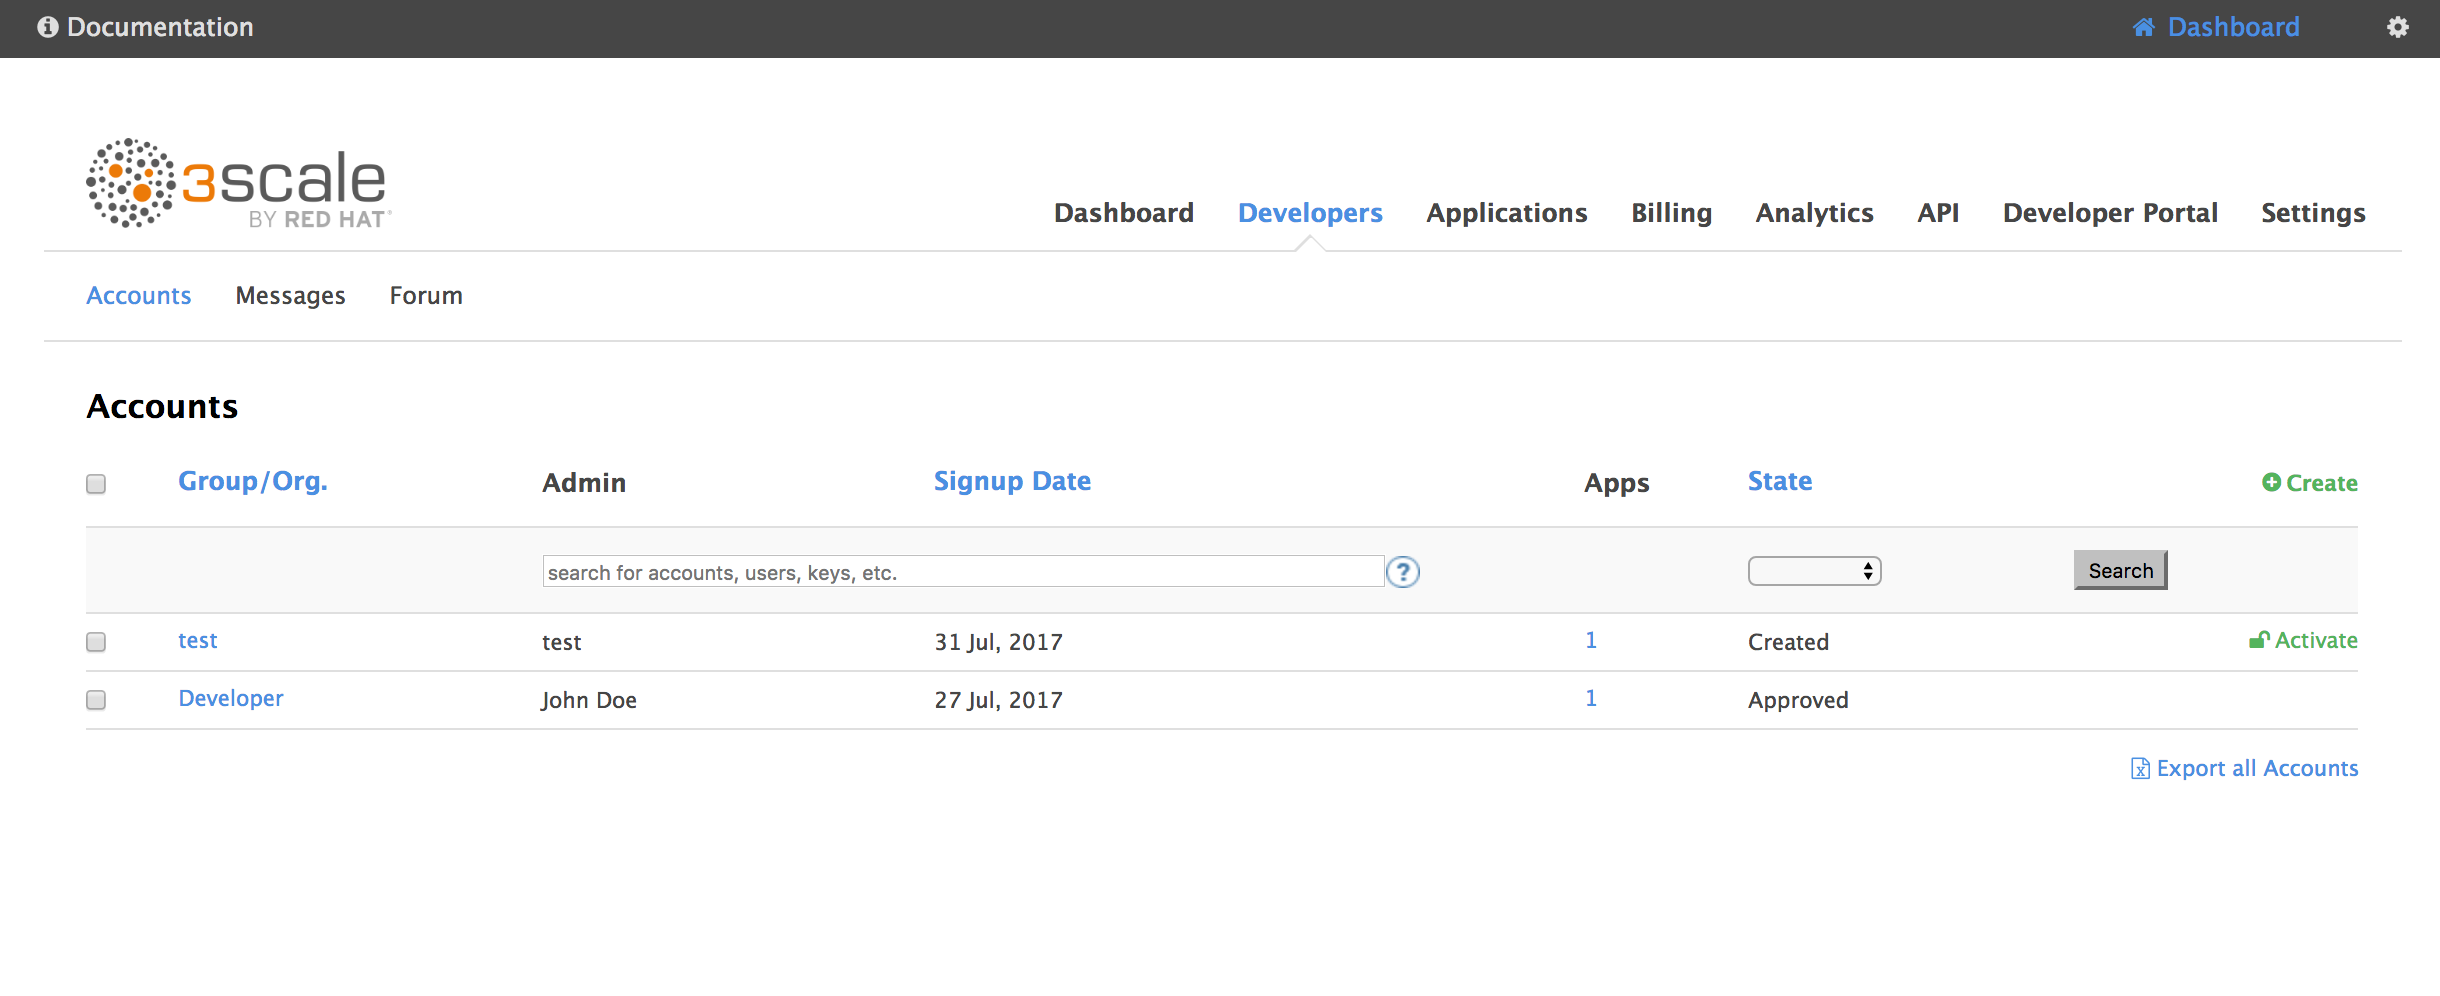
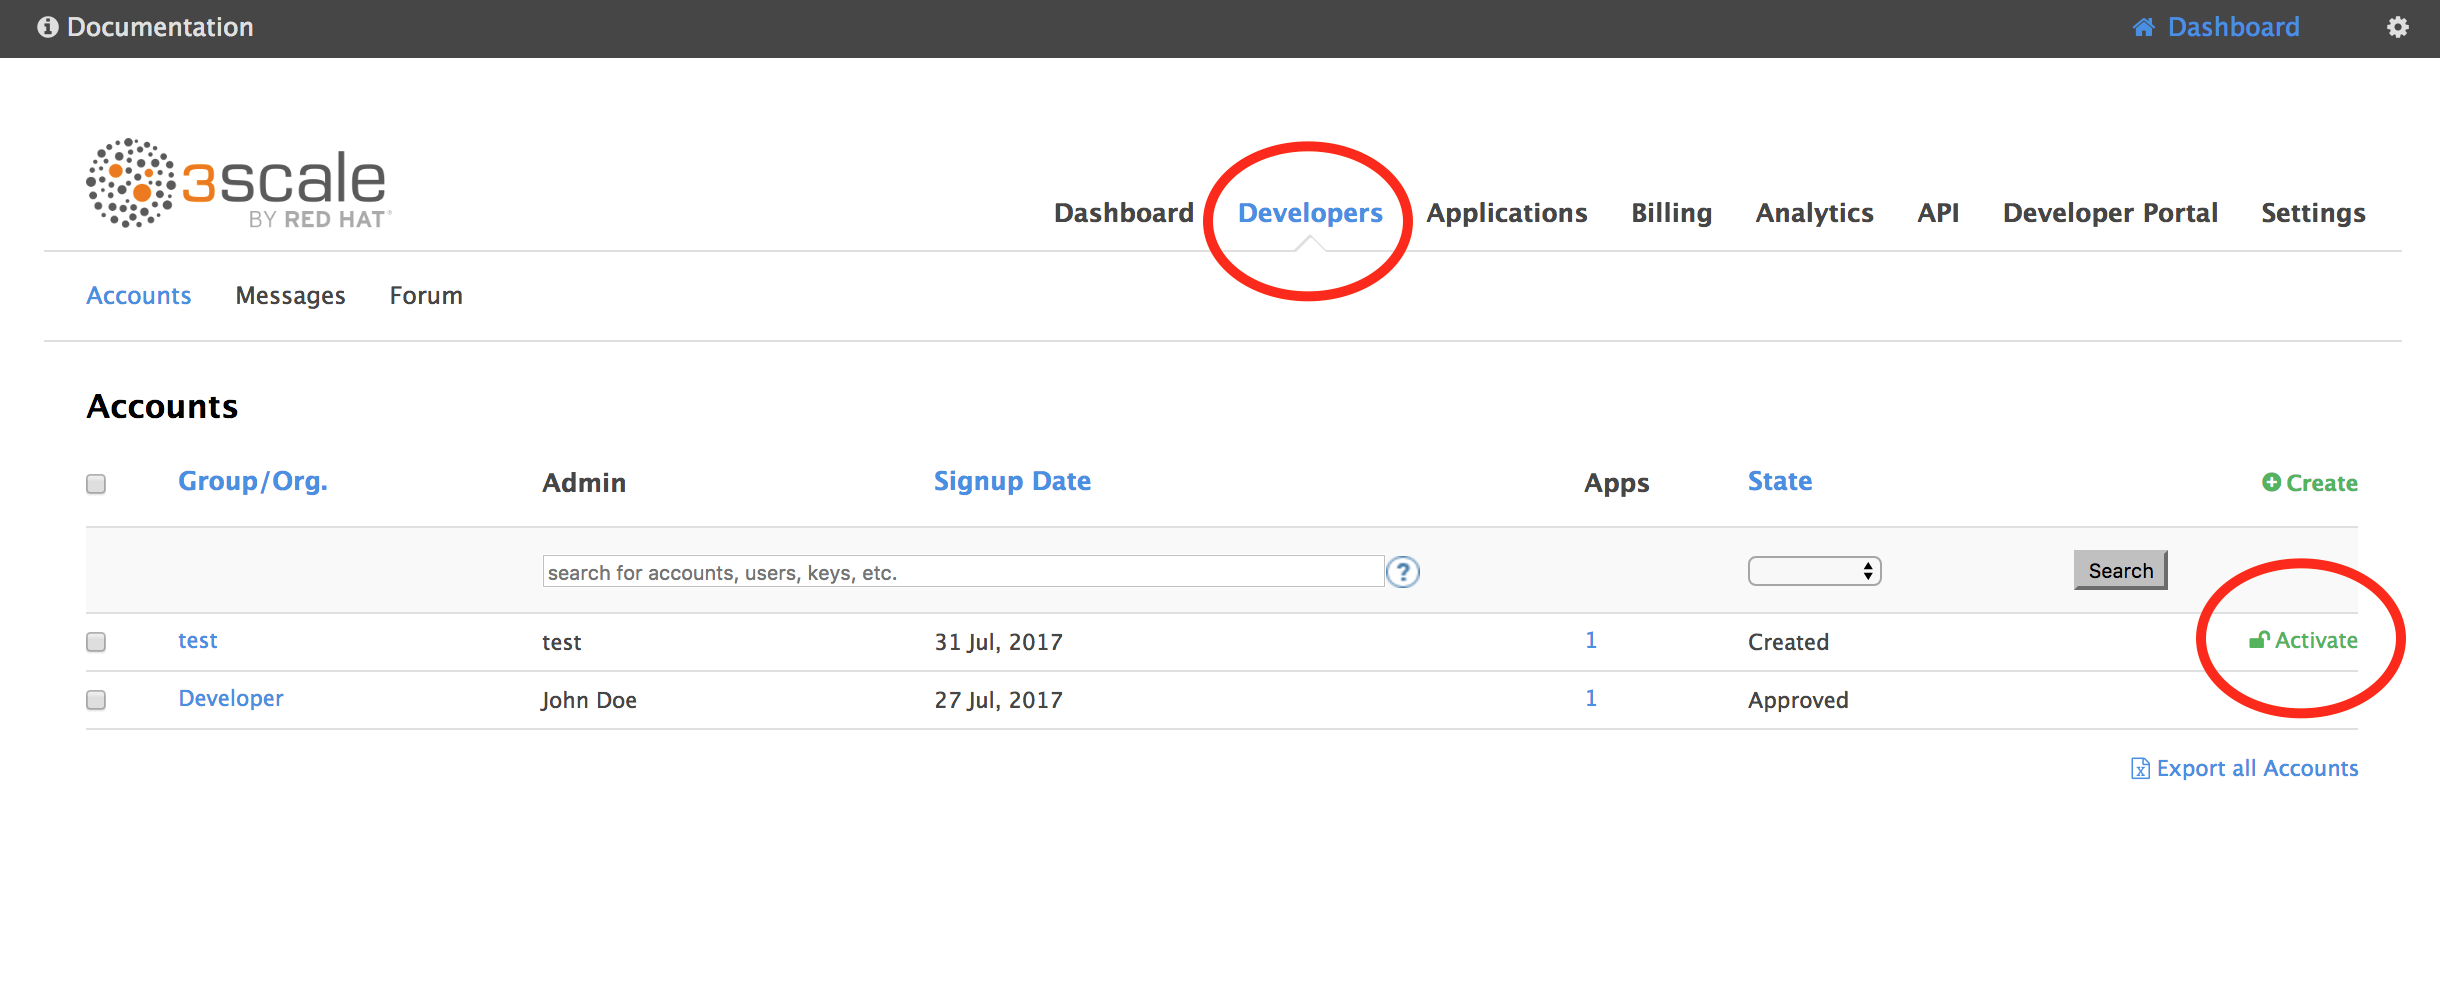
Updating documentation

diff --git a/README.md b/README.md
@@ -252,9 +252,9 @@ Authenticate with Red Hat SSO. Use either *rh-sso-ldap-user-id* or *rh-sso-user-
 After logging in you'll be prompted to add Custom signup fields. Do this and follow the sequence to completion.
 Close window  
 
-Now as your 3scale Admin user, activate this Signup Request:  
+Now as your 3scale Admin user, activate this Signup Request. Go to your Developers view and click Activate:  
   
-![28-auth-dev-portal-with-rhsso.png](https://raw.githubusercontent.com/tnscorcoran/rhsso-3scale/master/28-auth-dev-portal-with-rhsso.png)    
+![29-activate-signup-request](https://raw.githubusercontent.com/tnscorcoran/rhsso-3scale/master/29-activate-signup-request.png)    
   
 
 Dev Portal signup is now complete.
